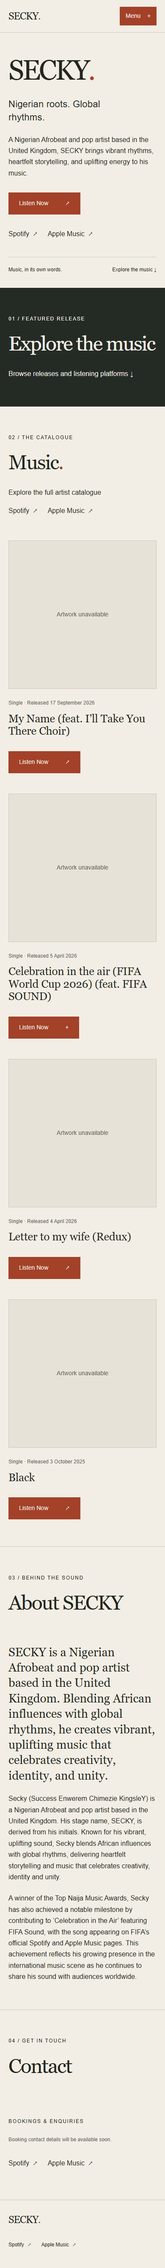
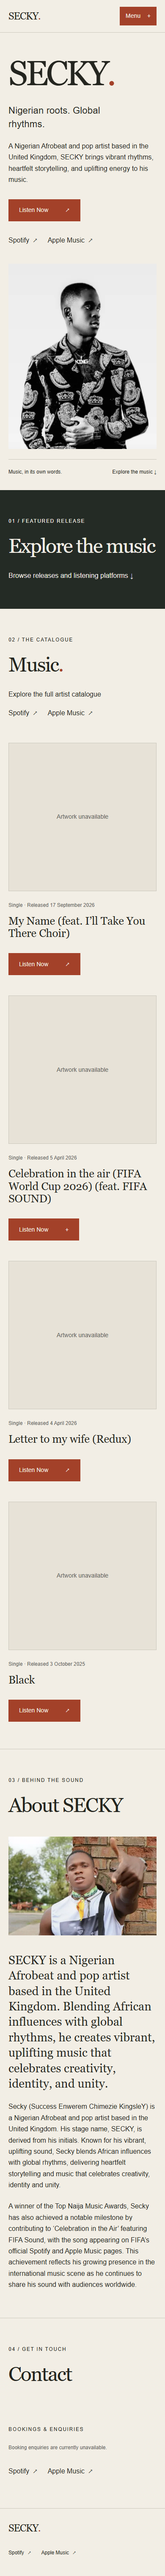
fix: polish responsive layouts, improve accessibility, and optimise site metadata and assets

diff --git a/src/content/artist.ts b/src/content/artist.ts
@@ -1,9 +1,20 @@
+import studioPortrait from '../assets/artist/secky-studio.jpeg';
+import outdoorPortrait from '../assets/artist/secky-outdoor.jpeg';
+import studio480 from '../assets/artist/secky-studio-480.webp';
+import studio800 from '../assets/artist/secky-studio-800.webp';
+import studioFull from '../assets/artist/secky-studio-1047.webp';
+import outdoor480 from '../assets/artist/secky-outdoor-480.webp';
+import outdoor800 from '../assets/artist/secky-outdoor-800.webp';
+import outdoorFull from '../assets/artist/secky-outdoor-1080.webp';
+
 export interface ArtistImage {
   src: string;
   alt: string;
   width: number;
   height: number;
   caption?: string;
+  webpSrcSet?: string;
+  sizes?: string;
 }
 export interface ProfileLink {
   label: string;
@@ -34,7 +45,7 @@ export interface ArtistContent {
 
 // Identity and biography are client-provided copy, not independently verified claims.
 // Preserve the supplied full-name spelling pending confirmation of the final capital Y.
-// No approved photography, booking address or social handles supplied.
+// Photographs supplied by the client; booking address and social handles remain absent.
 export const artist: ArtistContent = {
   isDraft: false,
   stageName: 'SECKY',
@@ -43,6 +54,20 @@ export const artist: ArtistContent = {
   metaDescription: 'Discover SECKY, a Nigerian Afrobeat and pop artist based in the United Kingdom. Explore his music and listen on Spotify and Apple Music.',
   introduction: 'Nigerian roots. Global rhythms.',
   supportingText: 'A Nigerian Afrobeat and pop artist based in the United Kingdom, SECKY brings vibrant rhythms, heartfelt storytelling, and uplifting energy to his music.',
+  heroImage: {
+    src: studioPortrait,
+    webpSrcSet: `${studio480} 480w, ${studio800} 800w, ${studioFull} 1047w`,
+    sizes: '(max-width: 639px) 90vw, (max-width: 1440px) 44vw, 624px',
+    alt: 'Black-and-white studio portrait of SECKY in a patterned suit, looking to the side',
+    width: 1047, height: 1143,
+  },
+  aboutImage: {
+    src: outdoorPortrait,
+    webpSrcSet: `${outdoor480} 480w, ${outdoor800} 800w, ${outdoorFull} 1080w`,
+    sizes: '(max-width: 639px) 90vw, (max-width: 1440px) 41vw, 600px',
+    alt: 'SECKY beside a brick wall outdoors, wearing a white shirt and colourful neck scarf',
+    width: 1080, height: 720,
+  },
   aboutHeading: 'About SECKY',
   shortBio: 'SECKY is a Nigerian Afrobeat and pop artist based in the United Kingdom. Blending African influences with global rhythms, he creates vibrant, uplifting music that celebrates creativity, identity, and unity.',
   biography: [

diff --git a/index.html b/index.html
@@ -5,6 +5,14 @@
     <meta name="viewport" content="width=device-width, initial-scale=1.0" />
     <meta name="robots" content="noindex, nofollow" />
     <title>SECKY | Official Website</title>
+    <link rel="icon" type="image/svg+xml" href="/favicon.svg" />
+    <meta property="og:type" content="website" />
+    <meta property="og:site_name" content="SECKY" />
+    <meta property="og:title" content="SECKY | Official Website" />
+    <meta property="og:description" content="Discover SECKY, a Nigerian Afrobeat and pop artist based in the United Kingdom. Explore his music and listen on Spotify and Apple Music." />
+    <meta name="twitter:card" content="summary" />
+    <meta name="twitter:title" content="SECKY | Official Website" />
+    <meta name="twitter:description" content="Discover SECKY, a Nigerian Afrobeat and pop artist based in the United Kingdom. Explore his music and listen on Spotify and Apple Music." />
     <meta name="description" content="Discover SECKY, a Nigerian Afrobeat and pop artist based in the United Kingdom. Explore his music and listen on Spotify and Apple Music." />
   </head>
   <body>

diff --git a/src/styles.css b/src/styles.css
@@ -165,8 +165,15 @@ footer .profile-links { margin-top: 0; }
 .platform-options a { display: flex; align-items: center; justify-content: space-between; gap: 1rem; min-height: 48px; padding-block: .5rem; }
 .featured :is(a, summary):focus-visible { outline-color: var(--on-dark); }
 .featured .platform-options a:focus-visible { outline-color: var(--accent); }
+.featured > .wrap > a:hover { color: var(--on-dark); text-decoration-thickness: 2px; }
 .hero-support { max-width: 58ch; }
 .hero.without-image h1 { font-size: clamp(4rem, 17vw, 10rem); max-width: 100%; }
 .music-profiles { margin-bottom: var(--space-5); }
 .music-profiles .profile-links { margin-top: .5rem; }
+
+/* Client portraits: frame the face without stretching or altering the originals. */
+.hero-image { align-self: center; }
+.hero-image img { height: auto; min-height: 0; aspect-ratio: 4 / 5; object-position: 50% 20%; filter: none; }
+.about-image { width: 100%; }
+.about-image img { aspect-ratio: 3 / 2; object-position: center; filter: none; }
 

diff --git a/src/components/ArtistSections.tsx b/src/components/ArtistSections.tsx
@@ -32,7 +32,7 @@ export function Contact({ artist }: { artist: ArtistContent }) {
   return <section id="contact" className="section" tabIndex={-1} aria-labelledby="contact-title"><Container>
     <div className="contact-grid"><SectionHeading id="contact-title" eyebrow="04 / Get in touch">{artist.contactHeading}</SectionHeading>
       <div className="contact-details"><p className="eyebrow">{artist.bookingLabel}</p>
-        {emailHref ? <Link className="booking-email" href={emailHref}>{artist.bookingEmail?.trim()}</Link> : <p className="draft">Booking contact details will be available soon.</p>}
+        {emailHref ? <Link className="booking-email" href={emailHref}>{artist.bookingEmail?.trim()}</Link> : <p className="draft">Booking enquiries are currently unavailable.</p>}
         <ProfileLinks profiles={artist.socialProfiles} label="Social profiles" />
         <ProfileLinks profiles={artist.streamingProfiles} label="Streaming profiles" />
       </div>

diff --git a/src/components/ui.tsx b/src/components/ui.tsx
@@ -19,8 +19,11 @@ export function ButtonLink(props: AnchorHTMLAttributes<HTMLAnchorElement>) {
 }
 export function ArtistPhoto({ image, hero = false }: { image: ArtistImage; hero?: boolean }) {
   return <figure className={hero ? 'hero-image' : 'about-image'}>
-    <img src={image.src} alt={image.alt} width={image.width} height={image.height}
-      loading={hero ? 'eager' : 'lazy'} fetchPriority={hero ? 'high' : 'auto'} />
+    <picture>
+      {image.webpSrcSet && <source type="image/webp" srcSet={image.webpSrcSet} sizes={image.sizes} />}
+      <img src={image.src} alt={image.alt} width={image.width} height={image.height}
+        decoding="async" loading={hero ? 'eager' : 'lazy'} fetchPriority={hero ? 'high' : 'auto'} />
+    </picture>
     {image.caption && <figcaption>{image.caption}</figcaption>}
   </figure>;
 }

diff --git a/docs/qa-report.md b/docs/qa-report.md
@@ -1,0 +1,73 @@
+# Release candidate QA
+
+Completed 19 October 2026. Status: ready for client review, **not approved for public launch**. No deployment performed. Review the current application at http://127.0.0.1:4173/ while the production preview is running, or run `npm run build` and `npm run preview`. `preview/index.html` is an archived design study, not this candidate.
+
+## Scope and visible content
+
+| Section | Audit result |
+| --- | --- |
+| Header | SECKY text identity; Music, About and Contact anchors; accessible mobile disclosure. |
+| Hero | Supplied name, introduction, supporting text and studio portrait; Listen Now targets Music because no feature is approved. Exact supplied Spotify/Apple Music profile URLs retained. |
+| Featured | Functional route to catalogue remains in the reserved section. Client must select a release before the agreed featured presentation is complete. |
+| Music | Four real, previously platform-identified singles; long titles wrap; dates descend; release-specific links only. All four covers remain unavailable and are visibly labelled. No fictional replacements. |
+| About | Supplied short biography and full two-paragraph biography, with supplied outdoor photograph. Full-name spelling retained. Award/FIFA claims remain client copy pending supporting evidence. |
+| Contact | Booking email absent; honest unavailable state, no fake form or action. Removed the unsupported promise that details would be available “soon”. Streaming profiles available; social links omitted. |
+| Footer | SECKY and supplied streaming profiles. Copyright owner and social destinations still need client confirmation. |
+
+No new features, excluded sections, embedded players, autoplay, backend or account functionality introduced. Sample artist copy is absent from the current page. Visible cover-unavailable and booking-unavailable states are launch blockers, not finished client content.
+
+## Changes and measured results
+
+- Added responsive WebP sources at 480px, 800px and original width, with JPEG fallback. Original photographs preserved; no retouching. Hero remains eager/high priority, About lazy with async decoding. Responsive `sizes` accompanies `srcset`; explicit dimensions reserve space.
+- WebP bytes, measured on disk: hero 32,468 / 80,976 / 130,370 versus original JPEG 152,908; About 25,906 / 61,886 / 102,648 versus original JPEG 116,917. Actual source choice depends on viewport, pixel density and browser cache. These are file sizes, not network performance scores.
+- Added an SVG S-dot favicon derived from the existing text identity and palette, for client review. Production asset returned HTTP 200.
+- Added Open Graph type/site name/title/description and Twitter summary/title/description to initial HTML. Verified the served production HTML contains these without JavaScript. No invented handles or domain.
+- Fixed low-contrast rust hover text on the dark featured-section background by retaining the light text colour and strengthening its underline.
+- Seven text colour pairs computed from design tokens pass 4.5:1: ink/paper 13.34, muted/paper 5.32, button normal 5.42, button hover 7.74, light/dark 12.53, muted/dark 8.53, artwork fallback 4.77. This is a targeted contrast check, not a complete WCAG certification.
+
+## Checks performed
+
+| Check | Actual result |
+| --- | --- |
+| `npm.cmd run build` | Passed strict TypeScript, 8/8 release tests, Vite production build (32 modules). JS gzip 73.87 kB; CSS gzip 4.82 kB. |
+| Development browser suite | Passed Edge headless at 320, 390, 768, 1440 and 1920 CSS px. |
+| Production browser suite | Passed same widths against Vite preview on 4173; HTTP 200; no horizontal overflow, missing images or unresolved anchors. Fixture imports intentionally skipped on production, exercised on development. |
+| Keyboard/navigation | Enter, Tab, Escape, close-on-selection, restored focus, focused target and sticky-header clearance passed. Visible 3px focus outline verified. |
+| Semantics | One h1, ordered h2/h3 hierarchy, one main/header/footer, labelled actions and artist image alternatives passed. |
+| Reduced motion | Emulated preference makes scrolling auto; stylesheet disables transitions/animations. |
+| Listening | Smart/direct/multiple/unavailable/pre-save branches, future dates, feature exclusion, newest-first order, missing fields and broken artwork fixtures passed. |
+| Platform chooser | Native nonmodal details/summary, not a dialog. Enter/Tab/Escape, focus return and emulated touch passed; no focus trap required. |
+| Booking/social | Missing links omitted; isolated valid mailto and profile fixtures passed. No real email or social account exists to verify. Exact supplied streaming profile hrefs checked. |
+| Runtime | Zero captured uncaught browser runtime exceptions in development and production. This is not a comprehensive capture of every browser log/network message. |
+| Visual review | Refreshed 390px and 1440px full-page screenshots in `docs/review/content-390.png` and `content-1440.png`; readable wrapping/spacing and visible faces without stretching. |
+
+The browser helper forces images eager for full-page captures; source code retains About's lazy loading in normal use. Capture code now waits for responsive source decoding after resizing, fixing an initial screenshot that omitted the About image during source switching. Initial image preparation was interrupted by Vite reloading; generation now finishes encoding all variants before writing them. The retried encoding and all final checks passed.
+
+## External destinations
+
+Rechecked through browsing on 18 October during this phase. Tool responses can be cached; none establishes current playback or worldwide availability. No login or playback performed. Do not replace restricted destinations with guessed URLs.
+
+| Destination | Result / unresolved verification |
+| --- | --- |
+| [Spotify artist](https://open.spotify.com/artist/2gyg88Hy443exTHje87bKk) | Title identifies Secky; no body returned. Full destination/profile review remains unverified. |
+| [Apple Music GB artist](https://music.apple.com/gb/artist/secky/1756161815) | Fetch cache miss; exact supplied URL retained, live check required. |
+| [My Name — Apple Music](https://music.apple.com/us/album/my-name-feat-ill-take-you-there-choir/6811251027?i=6811251028) | Cache miss; prior indexed metadata recorded in content-sources.md, live destination unverified. |
+| [Celebration — Apple Music](https://music.apple.com/us/album/celebration-in-the-air-fifa-world-cup-2026-feat-fifa/1888957592) | Accessible cached page matches Secky, title, single and 5 April 2026. Playback not tested. |
+| [Celebration — Spotify](https://open.spotify.com/track/2AoDhIQASYWEc1FjtXQv6y) | Page title matches track and Secky/FIFA Sound; no body returned. Playback/current availability unverified. |
+| [Letter to my wife (Redux) — Apple Music](https://music.apple.com/us/album/letter-to-my-wife-redux/1891233342?i=1891233343) | Fetch error; prior indexed metadata retained, live destination unverified. |
+| [Black — Apple Music](https://music.apple.com/us/album/black-single/1843594841) | Fetch error; prior indexed metadata retained, live destination unverified. |
+
+## Launch blockers and client review
+
+1. Supply authorised covers for all four releases; approve the partial catalogue and select the featured release. Until then the artwork-led/featured scope remains content-incomplete.
+2. Supply a public booking email and verify receipt, or explicitly approve a change to the booking requirement. Supply social links or confirm intentional omission; confirm copyright attribution.
+3. Confirm `Success Enwerem Chimezie KingsleY`, biography accuracy, award year/category/evidence and precise FIFA-profile claim. No endorsement or additional achievement has been inferred.
+4. Review the colours/type, portrait crops, S-dot favicon, required image credits and publication rights. Confirm the final content for publication.
+5. Manually verify the restricted destinations above on the intended platforms/region before launch; correct any mismatches using client-confirmed links.
+6. Supply the final HTTPS domain/hosting destination. Then add absolute canonical and `og:url`, an approved sharing image with absolute OG/Twitter image URLs and alt text, and a single-page sitemap. Configure public robots.txt and remove initial HTML `noindex, nofollow` only for approved launch. No domain-dependent files or fake domain values have been generated. Social image previews remain incomplete until this step.
+
+## Limits and repeatable checks
+
+No Lighthouse/axe score, Core Web Vitals field data, throttled performance benchmark, screen-reader session, physical-device test, Safari/Firefox test or social-platform debugger test was run. No full accessibility certification is claimed. Follow-up cross-browser/screen-reader review is recommended before public delivery.
+
+For development fixtures, follow README's dedicated Edge setup and run `node scripts/check-foundation.mjs`. For production, start a fresh dedicated browser and run `$env:QA_URL='http://127.0.0.1:4173/'; node scripts/check-foundation.mjs` in PowerShell. The helper closes its dedicated browser. Set `CAPTURE_CONTENT=1` to refresh captures. Clear `QA_URL` before running development fixtures. Image exports can be reproduced using `node scripts/prepare-images.mjs` with the dev server and dedicated browser running.

diff --git a/docs/implementation-progress.md b/docs/implementation-progress.md
@@ -1,10 +1,10 @@
 # Implementation progress
 
-Updated: 18 October 2026.
+Updated: 19 October 2026.
 
 ## Current status
 
-Phases 1–4 and the requested content integration are complete. SECKY's supplied identity, hero copy, biographies and two streaming profiles are integrated, together with four platform-identified singles. No release is featured; photography, covers and contact details are pending. The original `preview/` study is archived and separate from the application. Phase 5 has not begun. No hosting registration or deployment has been created.
+Phases 1–4 and content integration are complete. SECKY's identity, biographies, streaming profiles, four platform-identified singles and supplied hero/About photographs are integrated. No release is featured; cover artwork and contact details remain pending. The original `preview/` study is archived separately. Release-candidate QA and image/metadata preparation are complete; see qa-report.md for measured results and unresolved launch blockers. Ready for client review, not public launch. Nothing has been deployed.
 
 ## Completed in the planning phase
 
@@ -87,20 +87,35 @@ Phases 1–4 and the requested content integration are complete. SECKY's supplie
 - Spotify and Apple catalogue evidence was inspected through browsing. Several direct pages returned no body/cache misses; these are explicitly recorded rather than reported as live-link verification. No playback/login tests were performed.
 - Reused the pre-existing development server on port 5173 and left it running. The dedicated test browser closed after checks. No dependency changes or Phase 5 work performed.
 
+## Supplied photograph follow-up
+
+- Reviewed the 21 client-provided photos. Selected the monochrome studio portrait (`WhatsApp Image 2026-10-15 at 15.47.06.jpeg`) for the hero and `seky1.jpeg` for About.
+- Copied those two originals into `src/assets/artist/`, preserving source files in Downloads. Source sizes: 1047×1143 / 152,908 bytes and 1080×720 / 116,917 bytes. No recompression, retouching or generated imagery.
+- Added descriptive alt text. Hero uses a 4:5 CSS frame with a 50%/20% focal position; About retains the source 3:2 proportions and colour. Hero loads eagerly; About loads lazily. Other photos are not downloaded by page visitors.
+- Production build and all eight release tests passed. Browser checks passed at 320, 390, 768, 1440 and 1920px, including image loading, links, navigation and release interactions. Updated mobile/desktop captures were visually reviewed: both faces remain visible with no stretching or overflow.
+- Updated checklist and image provenance. This completes the supplied-photo integration only; release covers, selected feature and contact details are still outstanding.
+
+## Repeated brief verification
+
+- Read the resubmitted content brief and compared it with the existing content integration. Approved copy, profile URLs, metadata and supplied photographs were already present; no duplicate content or interface rebuild was needed.
+- Reran the production build: strict TypeScript, all eight release tests and Vite output passed.
+- Reran the browser checks at 320, 390, 768, 1440 and 1920px: images loaded, anchors resolved and no horizontal overflow occurred. Mobile keyboard navigation, sticky-anchor clearance, reduced motion, release actions, chooser keyboard/focus/touch and contact fixtures passed with no runtime errors.
+- Updated the source register to distinguish current photographs from the historical pre-photo state. No new external-link availability or playback checks were performed. Phase 5 has not begun.
+
 ## Remaining production work
 
 | Stage | Status | Completion condition |
 | --- | --- | --- |
-| Content collection | Identity/copy/profiles integrated | Awaiting photography, covers, contacts, social links, full catalogue and confirmations in the checklist. |
+| Content collection | Identity/copy/profiles/photos integrated | Awaiting covers, contacts, social links, full catalogue and confirmations in the checklist. |
 | Technical setup | Application tooling complete | Hosting selection remains pending. |
-| Content preparation | Partial catalogue integrated | Artwork, photos and remaining destination/claim checks pending. |
+| Content preparation | Partial catalogue and portraits integrated | Cover artwork and remaining destination/claim checks pending. |
 | Interface implementation | Core and release functionality complete | Approved content integration and review remain. |
 | Verification | Foundation and release checks complete | Final content, external links, screen-reader operation, cross-browser layout and delivery checked. |
 | Client review and delivery | Not started | Review feedback resolved and delivery undertaken in a later phase. |
 
 ## Assumptions and unresolved inputs
 
-The English-language page remains developer-managed. Identity, hero copy, biographies and Spotify/Apple Music profiles are supplied; four releases have platform-backed metadata. Approved photos, brand approval, complete catalogue/artwork, social handles, public booking email, copyright and featured selection remain outstanding. Confirm the full-name capitalisation and supply evidence for the award/FIFA wording. Hosting and domain remain undecided. Live destination access and final client approval remain launch requirements.
+The English-language page remains developer-managed. Identity, hero copy, biographies and Spotify/Apple Music profiles are supplied; four releases have platform-backed metadata. Brand approval, complete catalogue/artwork, social handles, public booking email, copyright and featured selection remain outstanding. Confirm the full-name capitalisation and supply evidence for the award/FIFA wording. Hosting and domain remain undecided. Live destination access and final client approval remain launch requirements.
 
 See `content-checklist.md` for collection requirements and `project-scope.md` for the proposed content files and update workflow.
 
@@ -112,4 +127,14 @@ See `content-checklist.md` for collection requirements and `project-scope.md` fo
 - Release and link maintenance described, including validation and later rebuild/deployment.
 - Only the three requested planning documents added; no implementation work performed.
 
-The bullets above describe the earlier planning-only milestone. The subsequent visual phase adds a runnable static mockup and targeted browser checks, not a production application. Open `preview/index.html` directly in a browser; see `design-direction.md` for screenshots, verification limits and assets still needed.
+The bullets above describe the earlier planning-only milestone. `preview/index.html` is the archived visual study. Use the root Vite application for the current SECKY website; see `README.md` for setup and development instructions and `design-direction.md` for the original design decisions.
+
+
+## Release-candidate phase — 19 October 2026
+
+- Audited every visible section, supplied content, profile links and release destinations; access restrictions and missing client inputs are listed in `qa-report.md`.
+- Added responsive WebP exports with JPEG fallback, source sizing and explicit dimensions; retained eager/high-priority hero and lazy About loading.
+- Added initial-HTML Open Graph/Twitter text metadata and an SVG favicon derived from the existing identity. Domain-dependent metadata and publication configuration remain blocked by the missing final domain.
+- Fixed the dark featured-section hover contrast and removed the unsupported booking availability promise.
+- Production build and 8/8 tests passed. Expanded semantics, contrast, keyboard-focus and existing browser checks passed against both development and production at five widths. Refreshed and reviewed mobile/desktop captures.
+- Full results, exact verification limits, client-review decisions and launch blockers are in `qa-report.md`. No deployment or new features introduced. Earlier milestone notes below/above remain historical records.

diff --git a/docs/content-checklist.md b/docs/content-checklist.md
@@ -1,6 +1,6 @@
 # Client content checklist
 
-Updated: 18 October 2026, content integration after Phase 4. SECKY's supplied identity, biographies, hero copy and two streaming profiles are integrated. Required means needed for launch. See `content-sources.md` for source URLs, partial catalogue verification and access limitations.
+Updated: 19 October 2026, release-candidate review. SECKY's supplied identity, biographies, hero copy and two streaming profiles are integrated. Required means needed for launch. See `content-sources.md` for source URLs, partial catalogue verification and access limitations.
 
 ## Required content
 
@@ -10,8 +10,8 @@ Updated: 18 October 2026, content integration after Phase 4. SECKY's supplied id
 | Integrated | Short introduction | “Nigerian roots. Global rhythms.” plus the exact supplied supporting paragraph. |
 | Integrated | Short biography | Exact supplied copy, used as the compact About introduction. |
 | Integrated; evidence pending | Full biography | Both supplied paragraphs retained verbatim. Treat award/FIFA statements as client-provided copy; see confirmations below. |
-| Missing | Hero photograph | High-resolution approved original, usage permission, required photographer credit, and preferred subject/crop. Confirm mobile crop suitability. |
-| Missing | Brand direction | Existing brand colours and typography preferences, or agreement that the developer may propose them for approval. Include font licensing constraints. No fixed palette or typeface is assumed. |
+| Integrated | Hero photograph | Client-supplied monochrome studio portrait (`15.47.06.jpeg`), with face-safe responsive framing. |
+| Missing | Brand direction | Existing brand colours and typography preferences, or agreement that the developer may propose them for approval. Include font licensing constraints. The proposed ivory/ink/rust palette and Georgia/Arial typography await approval. |
 | Missing | Featured release selection | Identify the release to lead the page and whether it is already released or forthcoming. |
 | Partially integrated | Release catalogue | Four singles with platform-sourced titles, dates and release links. Complete canonical catalogue, final client review and approved artwork still needed. See `content-sources.md`. |
 | Missing | Social profile URLs | Exact official profile destinations to include; explicitly confirm if none should appear. |
@@ -40,25 +40,25 @@ The developer will assign stable IDs, create accurate image descriptions from su
 | Status | Item | Use or fallback |
 | --- | --- | --- |
 | Not supplied | Logo | Supply SVG or high-resolution transparent artwork and usage rules if available; otherwise use the stage name as text. |
-| Not supplied | Other approved artist photographs | About portrait or supporting imagery; omit extra imagery if unavailable. Include permissions and credits. |
+| Integrated | Other artist photographs | Client supplied 21 photos; `seky1.jpeg` selected for About. Remaining options are not loaded into the page. |
 | Not supplied | Separate mobile hero crop | Useful where the original cannot crop well; developer can prepare a crop from the approved original. |
 | Not supplied | Additional listening destinations | Extra platforms beyond the one required per release. Only show verified supplied links. |
 | Not supplied | Release descriptions or credits | Short approved context where useful; no fabricated collaborators, reviews or achievements. |
 | Not supplied | Management/contact label | Approved name or organisation and role, only if intended for public display. The public email is sufficient. |
 | Not supplied | Brand guide and licensed font files | Existing guidelines can direct styling; otherwise agree on an original visual direction and suitable fonts. |
-| Not supplied | Favicon and social sharing image | Can be derived later from approved branding/assets, subject to approval. |
+| Review / pending | Favicon and social sharing image | S-dot SVG favicon implemented for review. Sharing image and final domain still pending. |
 
 ## Collection and approval process
 
-Client confirmations before Phase 5/launch:
+Client confirmations before launch:
 
 - Confirm the unusual final capitalisation in **Success Enwerem Chimezie KingsleY**; it has not been normalised.
 - Supply the Top Naija Music Awards year/category and official evidence. This claim is client copy, not independently verified.
 - Supply links supporting the precise claim about appearing on FIFA's official Spotify and Apple Music pages. Release collaborator metadata does not independently establish official endorsement or account ownership. No ambassador/partner/performer/award claim has been added.
 - Choose the featured release; confirm the partial catalogue and resolve differing platform titles/types for other entries before adding them.
-- Provide authorised SECKY photographs and cover artwork with usage/credit details. Existing stock photos were removed from the application and must not be represented as the artist.
+- Artist photographs are now supplied and integrated. Supply release cover artwork and any required photographer credit wording. Existing stock photos remain excluded from the application.
 - Supply a public booking/management email, official social handles if any, copyright attribution and brand approval.
-- Confirm live availability of the supplied Apple Music GB profile and cached/indexed release destinations. No production domain, canonical URL, sharing image or favicon has been invented.
+- Confirm live availability of the supplied Apple Music GB profile and cached/indexed release destinations. Final domain, canonical URL and sharing image remain pending. Review the derived S-dot favicon and see qa-report.md for launch requirements.
 
 Supply copy and release data in a document or spreadsheet with files clearly matched to the artist/release. Provide original assets rather than screenshots where possible. Record which items are approved, require edits, or are intentionally unavailable. The developer then transfers approved values into the structured files proposed in `project-scope.md`.
 

diff --git a/README.md b/README.md
@@ -1,6 +1,6 @@
 # Artist website
 
-SECKY's identity, client-supplied biographies, Spotify/Apple Music profiles and four platform-identified releases are integrated after Phase 4. No release is featured yet; approved photography, covers and contact details are still missing. Phase 5 has not begun. No backend or account features are included.
+SECKY's identity, biographies, supplied hero/About photos, Spotify/Apple Music profiles and four platform-identified releases are integrated after Phase 4. No release is featured yet; covers and contact details are still missing. Release-candidate QA is complete; see docs/qa-report.md for launch blockers. No backend or account features are included.
 
 ## Setup and development
 
@@ -40,11 +40,11 @@ Edit `src/content/artist.ts`, not layout components. Change stage name, tagline,
 
 Set `bookingEmail` to the verified public address. The contact component renders it as a `mailto:` link; blank or malformed values render an honest unavailable message. There is no form or sending service. Social/streaming arrays contain `{ label, url }` entries. Only nonempty labels with valid HTTPS URLs are displayed. They open in the same tab and have visible text labels; decorative arrows are hidden from assistive technology. Empty arrays produce no placeholder links or empty link headings. Manually verify the actual artist destination; syntax validation does not establish ownership.
 
-Current artist copy is client-supplied and `isDraft` is false, removing obsolete sample-copy notices. This does not mean launch-ready: noindex remains in place, and photography, artwork, booking/social details and copyright attribution are pending. Spotify and Apple Music profile links use the exact supplied URLs. Test `.test` URLs stay inside isolated fixtures. Set `copyrightOwner` only when confirmed. The full biography is supplied copy; supporting award/FIFA evidence and the final capital Y in the full name are tracked in the checklist.
+Current artist copy is client-supplied and `isDraft` is false, removing obsolete sample-copy notices. This does not mean launch-ready: noindex remains in place, and release artwork, booking/social details and copyright attribution are pending. Spotify and Apple Music profile links use the exact supplied URLs. Test `.test` URLs stay inside isolated fixtures. Set `copyrightOwner` only when confirmed. The full biography is supplied copy; supporting award/FIFA evidence and the final capital Y in the full name are tracked in the checklist.
 
 Artist content uses a typed file in place of the initial JSON proposal. Release data is maintained separately in `src/content/releases.ts`; see [release management](docs/release-management.md) for adding, editing, featuring, removing and verifying releases. `src/lib/releases.ts` handles selection, dates and listening decisions; `src/components/Releases.tsx` renders the artwork, grid and inline chooser. With no featured release selected, hero Listen Now targets `#music`, which offers both artist profiles. An explicitly featured release with an available listening/pre-save action switches that anchor to `#latest`.
 
-Maintain `pageTitle` and `metaDescription` in the artist content and the matching initial metadata in root `index.html`. The requested title is `SECKY | Official Website`. No canonical URL, production domain, favicon or social-sharing image was supplied; none has been fabricated. No social-sharing title/description tags previously existed. See [content sources](docs/content-sources.md) before changing release metadata or achievement wording.
+Maintain `pageTitle` and `metaDescription` in the artist content and the matching initial metadata in root `index.html`. The requested title is `SECKY | Official Website`. Initial HTML includes Open Graph and Twitter title/description tags and a locally derived S-dot SVG favicon. Final domain, canonical URL, sitemap, public robots configuration and approved sharing image remain pending; retain noindex until launch approval. See [content sources](docs/content-sources.md) before changing release metadata or achievement wording.
 
 ## Navigation and accessibility
 
@@ -70,6 +70,7 @@ The helper closes its dedicated browser on completion. It checks 320, 390, 768, 
 
 ## Outstanding content and later work
 
-Remaining inputs: approved artist photography, all cover artwork, featured selection, canonical full catalogue, booking/management email, social handles, copyright attribution, brand approval and claim/name confirmations. The identity, hero copy, biographies and two artist profile URLs have been supplied and integrated. Catalogue sources and limited-access URLs are recorded in `docs/content-sources.md`. No deployment, final optimisation, broad cross-browser audit, physical-device testing or screen-reader audit has been performed.
+Remaining inputs: all cover artwork, featured selection, canonical full catalogue, booking/management email, social handles, copyright attribution, brand approval and claim/name confirmations. The identity, hero copy, biographies and two artist profile URLs have been supplied and integrated. Catalogue sources and limited-access URLs are recorded in `docs/content-sources.md`. Responsive image optimisation and targeted production QA are complete. No deployment, broad cross-browser audit, physical-device testing or screen-reader audit has been performed. See docs/qa-report.md.
 
 The production build also runs eight release logic/content tests. The existing browser helper now includes isolated release fixtures via `scripts/browser-release-checks.mjs` and `scripts/browser-fixtures.ts`; neither is imported into the production application. It tests all listening branches, artwork failure, feature exclusion, responsive catalogue columns, keyboard and emulated touch without navigating to fictitious destinations.
+

diff --git a/docs/content-sources.md b/docs/content-sources.md
@@ -33,10 +33,14 @@ Other entries seen in profile/index snapshots (including Infatuation, Lagos to L
 
 ## Assets and publication gaps
 
-The workspace contained only the two stock images under `preview/assets/` and previous design screenshots. None identifies SECKY or is approved client artwork. Imports were removed from the application, so these images are absent from the current production bundle. They remain only in the archived Phase 2 study. Hero and About render without photos, and release cards use the existing artwork-unavailable fallback.
+**Photo follow-up:** The client subsequently supplied 21 photographs identified as SECKY. The current hero uses `WhatsApp Image 2026-10-15 at 15.47.06.jpeg` (1047×1143, monochrome studio portrait), copied to `src/assets/artist/secky-studio.jpeg`. About uses `seky1.jpeg` (1080×720, outdoor close-up), copied to `src/assets/artist/secky-outdoor.jpeg`. Originals are unchanged; CSS handles responsive framing. The hero face stays visible in the 4:5 frame; About retains 3:2 proportions and source colour. No photo was repurposed as release artwork. Current mobile/desktop captures in `docs/review/` were refreshed and visually checked after integration. Photography is no longer a missing-content item; any requested photographer credit wording can be added when supplied.
 
-Needed: authorised SECKY hero/About photographs with credit/crop guidance, covers for the four entries, optional logo, approved social-sharing image/favicon if wanted, booking/management email, social handles, copyright attribution, feature selection and brand approval. No production domain or canonical URL has been invented. The requested title and description are present; no social-sharing title/description fields previously existed. The existing noindex directive remains until the later launch decision.
+The following records the earlier pre-photo integration state:
+
+The workspace contained only the two stock images under `preview/assets/` and previous design screenshots. None identifies SECKY or is approved client artwork. Imports were removed from the application, so these images are absent from the current production bundle. They remain only in the archived Phase 2 study. Hero and About initially rendered without photos; the supplied photographs now replace that state. Release cards still use the existing artwork-unavailable fallback.
+
+Still needed: covers for the four entries, optional logo, approved social-sharing image/favicon if wanted, booking/management email, social handles, copyright attribution, feature selection and brand approval. No production domain or canonical URL has been invented. The requested title and description are present; no social-sharing title/description fields previously existed. The existing noindex directive remains until the later launch decision.
 
 ## Validation scope
 
-Production build, eight release tests, existing foundation/browser checks and content-specific assertions passed. Checked exact supplied profile hrefs in hero/Music/footer, hero routing to Music, no profile URL reused for a release, absence of sample copy and stock photographs, full-name spelling, and title. Mobile/desktop text wrapping and biography spacing were visually reviewed in `docs/review/content-390.png` and `content-1440.png`; automated widths also covered 320, 768 and 1920px. Image cropping could not be evaluated because no authorised photos were supplied. No physical-device, screen-reader, final performance or broad QA audit was performed; Phase 5 has not begun.
+Production build, eight release tests, existing foundation/browser checks and content-specific assertions passed. Checked exact supplied profile hrefs in hero/Music/footer, hero routing to Music, no profile URL reused for a release, absence of sample copy and stock photographs, full-name spelling, and title. Mobile/desktop text wrapping and biography spacing were visually reviewed in `docs/review/content-390.png` and `content-1440.png`; automated widths also covered 320, 768 and 1920px. After photo integration, refreshed mobile/desktop captures were visually checked for face visibility and proportions. The repeated brief verification reran the build and browser checks successfully, including both loaded artist images; it did not repeat live destination checks. No physical-device, screen-reader, final performance or broad QA audit was performed; Phase 5 has not begun.
